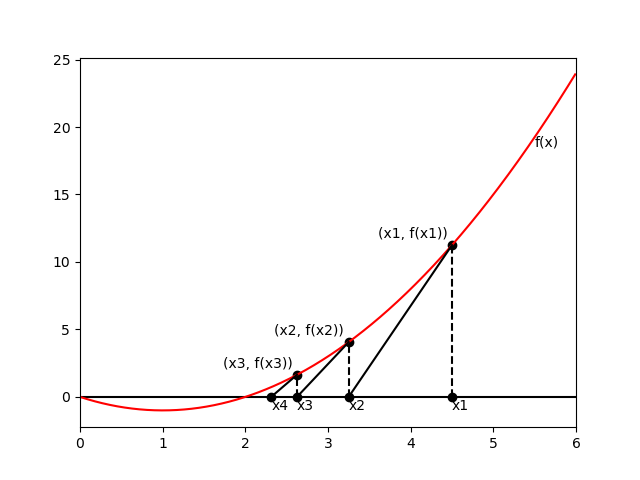
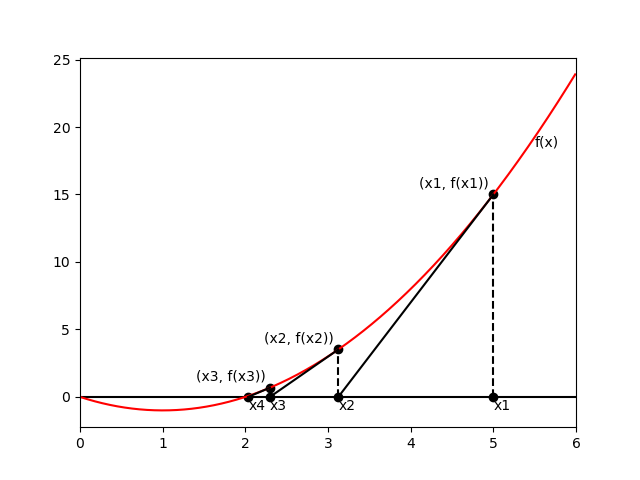
edit script

diff --git a/pattern-recognition-and-machine-learning-book/linear-models/classification/newtons-method.py b/pattern-recognition-and-machine-learning-book/linear-models/classification/newtons-method.py
@@ -1,5 +1,6 @@
 import numpy as np
 import matplotlib.pyplot as plt
+import imageio
 
 
 def f(x: float) -> float:
@@ -7,36 +8,55 @@ def f(x: float) -> float:
 
 
 def f_prime(x: float) -> float:
-    return 2 * x
+    return 2 * x - 2
 
 
-def newtons_method(x: float, order: int) -> None:
+def newtons_method(x: float, order: int, img_paths) -> None:
     for n in range(1, order):
         fx = f(x)
         plt.scatter(x, fx, c='black')
         ax.annotate(f'(x{n}, f(x{n}))', (x - 0.9, fx + 0.5))
         plt.plot([x, x], [0, fx], c='black', linestyle='dashed')
+        img_path = img_basename + f'fx{n}.png'
+        plt.savefig(img_path)
+        img_paths.append(img_path)
         x_new = x - fx / f_prime(x)
         plt.plot([x_new, x], [0, fx], c='black')
         x = x_new
         plt.scatter(x, 0, c='black')
         ax.annotate(f'x{n+1}', (x, 0), (x, -1))
+        img_path = img_basename + f'x{n+1}.png'
+        plt.savefig(img_path)
+        img_paths.append(img_path)
 
 
 if __name__ == '__main__':
     x = np.arange(0, 6, 0.01)
     fx = f(x)
-    x1 = 4.5
+    x1 = 5
     order = 4
+    img_paths = []
+    img_basename = '../../images/newtons-method'
 
     fig, ax = plt.subplots()
     plt.plot(x, np.zeros(x.shape), c='black')
     plt.plot(x, fx, c='red')
     ax.annotate('f(x)', (5.5, f(5.5)), (5.5, f(5.5) - 0.7))
+    img_path = img_basename + 'fx.png'
+    plt.savefig(img_path)
+    img_paths.append(img_path)
     plt.scatter(x1, 0, c='black')
     ax.annotate(f'x1', (x1, 0), (x1, -1))
-    newtons_method(x1, order)
+    img_path = img_basename + 'x1.png'
+    plt.savefig(img_path)
+    img_paths.append(img_path)
+    newtons_method(x1, order, img_paths)
 
     plt.xlim(0, 6)
-    plt.savefig('../../images/newtons-method.png')
+    plt.savefig(img_basename + '.png')
     plt.close()
+
+    images = []
+    for path in img_paths:
+        images.append(imageio.imread(path))
+    imageio.mimsave(img_basename + '.gif', images, duration=0.5)
